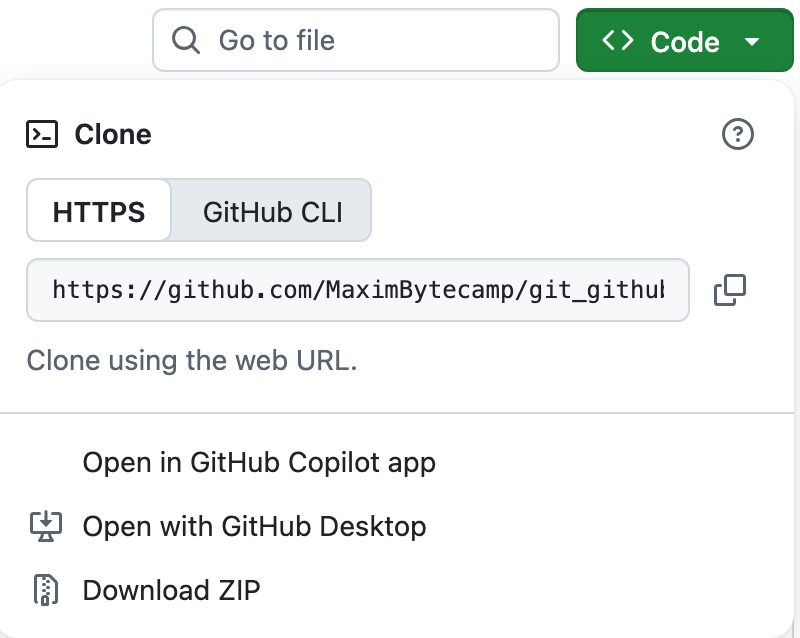
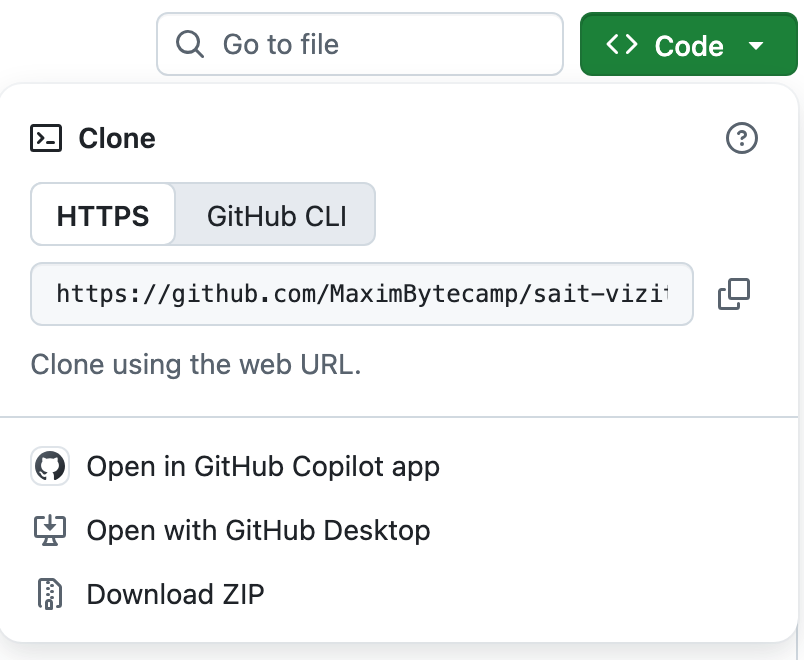
Глава 2.2: клонирование на отдельном учебном репозитории sait-vizitka

diff --git a/temy/05-init-i-clone/index.html b/temy/05-init-i-clone/index.html
@@ -179,23 +179,28 @@ nothing to commit (create/copy files and use "git add" to track)</pre>
         <p>Три факта в четырёх строках: ветка называется <code>main</code>, коммитов ещё нет, отслеживать нечего. Ровно это же показывает пустая панель Source Control — просто короче. На этом путь А закончен; дальше начинается второй.</p>
 
         <h2 id="s4"><span class="sec">§4</span>Путь Б, шаг 1. Скопировать адрес проекта</h2>
+        <p>Клонировать будем учебный проект <a href="https://github.com/MaximBytecamp/sait-vizitka">sait-vizitka</a> — сайт-визитка из трёх файлов с короткой историей. Он открытый, качать его может кто угодно.</p>
         <p>Для клонирования нужен адрес репозитория. Он не берётся из адресной строки браузера — там ссылка на страницу. Настоящий адрес лежит под зелёной кнопкой <b>Code</b> на странице проекта.</p>
         <figure class="shot shot--wide">
+          <img src="img/gh-repo-top.png" alt="Страница проекта sait-vizitka на GitHub: три файла, пояснения к коммитам и счётчик 4 Commits">
+          <figcaption>Страница проекта: три файла, у каждого пояснение к последнему коммиту, справа счётчик <b>4 Commits</b>. Эти же файлы окажутся у вас на диске.</figcaption>
+        </figure>
+        <figure class="shot shot--wide">
           <img src="img/gh-clone-url.png" alt="Раскрытая кнопка Code на GitHub: вкладки HTTPS и GitHub CLI, поле с адресом репозитория и значок копирования">
-          <figcaption>Кнопка <b>Code</b> раскрыта на странице этого справочника. Вкладка <b>HTTPS</b>, поле с адресом, справа значок копирования — нажмите его.</figcaption>
+          <figcaption>Кнопка <b>Code</b> раскрыта на странице учебного проекта <code>sait-vizitka</code>. Вкладка <b>HTTPS</b>, поле с адресом, справа значок копирования — нажимаем его.</figcaption>
         </figure>
         <p>Скопировался адрес, заканчивающийся на <code>.git</code>:</p>
         <div class="swap">
           <div class="swap__row">
-            <div class="swap__old"><b>Ссылка на страницу</b>https://github.com/MaximBytecamp/git_github_makarov</div>
+            <div class="swap__old"><b>Ссылка на страницу</b>https://github.com/MaximBytecamp/sait-vizitka</div>
             <div class="swap__arrow">→</div>
-            <div class="swap__new"><b>Адрес репозитория</b>https://github.com/MaximBytecamp/git_github_makarov.git</div>
+            <div class="swap__new"><b>Адрес репозитория</b>https://github.com/MaximBytecamp/sait-vizitka.git</div>
           </div>
         </div>
         <p>Отличается одним окончанием. Git принимает и ссылку без <code>.git</code> — сам достроит, — но копировать надёжнее из того поля, где адрес дан целиком.</p>
 
         <h2 id="s5"><span class="sec">§5</span>Путь Б, шаг 2. Вызвать команду Git: Clone</h2>
-        <p><b>Что делаем.</b> Открываем палитру команд: <kbd><span data-os="win linux">Ctrl</span><span data-os="mac">Cmd</span></kbd> + <kbd>Shift</kbd> + <kbd>P</kbd>. Начните набирать <code>Git: Clone</code> — список сам сузится до двух пунктов.</p>
+        <p><b>Что делаем.</b> Открываем палитру команд: <kbd><span data-os="win linux">Ctrl</span><span data-os="mac">Cmd</span></kbd> + <kbd>Shift</kbd> + <kbd>P</kbd>. Начинаем набирать <code>Git: Clone</code> — список сам сузится до двух пунктов.</p>
         <figure class="shot shot--wide">
           <img src="img/clone1-palette.png" alt="Палитра команд VS Code с набранным Git: Clone и двумя найденными командами">
           <figcaption>Нужен верхний пункт — <b>Git: Clone</b>. Нижний, <b>Clone (Recursive)</b>, понадобится только на проектах с вложенными репозиториями.</figcaption>
@@ -211,10 +216,10 @@ nothing to commit (create/copy files and use "git add" to track)</pre>
 
         <h2 id="s7"><span class="sec">§7</span>Путь Б, шаг 4. Выбрать папку и открыть проект</h2>
         <p><b>Что делаем.</b> Откроется окно выбора папки. Выбираем папку, <em>в которой</em> появится проект: сама папка проекта создастся внутри и получит имя репозитория. Заводить её заранее не нужно.</p>
-        <p>Когда загрузка закончится, VS Code спросит, открыть ли скачанный проект. Нажмите <b>Open</b> — и в проводнике появятся файлы:</p>
+        <p>Когда загрузка закончится, VS Code спросит, открыть ли скачанный проект. Нажимаем <b>Open</b> — и в проводнике появляются файлы:</p>
         <figure class="shot shot--panel">
-          <img src="img/clone3-files.png" alt="Проводник VS Code со списком файлов склонированного проекта: папки chernoviki, temy, tools и файлы index.html, styles.css, README.md">
-          <figcaption>Файлы склонированного справочника. Это те же папки и файлы, что видны на странице проекта на GitHub.</figcaption>
+          <img src="img/clone3-files.png" alt="Проводник VS Code со списком файлов склонированного проекта: index.html, README.md, styles.css">
+          <figcaption>Файлы склонированного проекта: <code>index.html</code>, <code>README.md</code>, <code>styles.css</code>. Ровно те же три файла видны на странице проекта на GitHub.</figcaption>
         </figure>
         <p>В строке состояния сразу видна ветка и значок обмена с сервером:</p>
         <figure class="shot shot--bar">
@@ -230,18 +235,17 @@ nothing to commit (create/copy files and use "git add" to track)</pre>
         <h2 id="s8"><span class="sec">§8</span>Путь Б, шаг 5. Убедиться, что пришла история</h2>
         <p><b>Что проверяем.</b> Главное отличие клона от скачанной папки — вместе с файлами приехали все прошлые версии. Это видно двумя командами в терминале проекта.</p>
         <figure class="code code--out">
-          <figcaption><span>терминал в склонированной папке</span><span>git log --oneline -5</span></figcaption>
-<pre>12f15c3 Глава 2.1: пошаговый разбор на одном проекте и кадры строки состояния
-507b92c Глава 2.1: панель Source Control
-7c91a90 Модуль 1: снята ранняя глава про устройство, добавлено «зачем это в работе»
-9a69f1f Картинки к определениям и ассоциации к процессам
-ea99758 Редактура текста глав 1.2-1.4</pre>
+          <figcaption><span>терминал в склонированной папке</span><span>git log --oneline</span></figcaption>
+<pre>745f2e1 Добавил README с описанием проекта
+8da3e92 Добавил абзац о себе
+8e377ad Подключил файл со стилями
+934282c Первая страница сайта</pre>
         </figure>
-        <p>Слева короткое имя коммита, справа пояснение автора. Все эти версии лежат у вас на диске и открываются без интернета.</p>
+        <p>Четыре строки — четыре версии проекта, снизу вверх от самой первой. Слева короткое имя коммита, справа пояснение автора. Все они лежат у вас на диске и открываются без интернета: видно, что сайт начинался с одной страницы, потом к нему подключили стили, затем добавили абзац и описание.</p>
         <figure class="code code--out">
           <figcaption><span>терминал</span><span>git remote -v</span></figcaption>
-<pre>origin	https://github.com/MaximBytecamp/git_github_makarov.git (fetch)
-origin	https://github.com/MaximBytecamp/git_github_makarov.git (push)</pre>
+<pre>origin	https://github.com/MaximBytecamp/sait-vizitka.git (fetch)
+origin	https://github.com/MaximBytecamp/sait-vizitka.git (push)</pre>
         </figure>
         <p>Адрес сервера записан под коротким именем <span class="term">origin</span>. Именно поэтому в строке состояния появились стрелки обмена: клон знает, откуда он взят. Две строки вместо одной — потому что адрес получения и адрес отправки разрешено делать разными; в обычном проекте они совпадают.</p>
         <div class="swap">
@@ -267,7 +271,7 @@ origin	https://github.com/MaximBytecamp/git_github_makarov.git (push)</pre>
         </div>
         <div class="margin-note">
           <b>На полях: история весит место</b>
-          <p>Скачивается не только текущая версия файлов. Папка <code>.git</code> этого справочника занимает около 3 МБ при небольшом размере самих файлов — в ней лежат все прошлые состояния. У больших проектов история бывает в разы тяжелее рабочих файлов, и это нормально.</p>
+          <p>Скачивается не только текущая версия файлов, но и все прошлые состояния. У учебного проекта из трёх файлов папка <code>.git</code> занимает около 120 КБ — больше, чем сами файлы. У рабочих проектов с многолетней историей она бывает в разы тяжелее рабочих файлов, и это нормально.</p>
         </div>
 
         <h2 id="s9"><span class="sec">§9</span>Clone или Download ZIP</h2>
@@ -323,7 +327,7 @@ origin	https://github.com/MaximBytecamp/git_github_makarov.git (push)</pre>
         <p>Если папка с таким именем уже есть и в ней что-то лежит, Git отказывается:</p>
         <figure class="code code--out">
           <figcaption><span>терминал</span><span>ответ при конфликте имён</span></figcaption>
-<pre>fatal: destination path 'git_github_makarov' already exists and is not an empty directory.</pre>
+<pre>fatal: destination path 'sait-vizitka' already exists and is not an empty directory.</pre>
         </figure>
         <p>Это защита: иначе клон затёр бы чужие файлы. Выберите другое место или укажите другое имя папки последним словом команды.</p>
 
@@ -443,8 +447,8 @@ origin	https://github.com/MaximBytecamp/git_github_makarov.git (push)</pre>
         <div class="sources">
           <b>Откуда взяты факты</b>
           <ol>
-            <li>Кадры VS Code сняты на учебных проектах этой главы: пустая папка <code>proba-git</code> и клон справочника. Ответы команд получены в Git версии 2.51.1.</li>
-            <li>Кадр страницы проекта и кнопки <b>Code</b> — <a href="https://github.com/MaximBytecamp/git_github_makarov">github.com/MaximBytecamp/git_github_makarov</a>.</li>
+            <li>Кадры VS Code сняты на учебных проектах этой главы: пустая папка <code>proba-git</code> и клон проекта <code>sait-vizitka</code>. Ответы команд получены в Git версии 2.51.1.</li>
+            <li>Учебный репозиторий для клонирования — <a href="https://github.com/MaximBytecamp/sait-vizitka">github.com/MaximBytecamp/sait-vizitka</a>: страница одного сайта и четыре коммита.</li>
             <li>Поведение <code>git init</code> и <code>git clone</code> — <a href="https://git-scm.com/docs/git-init">документация git-init</a> и <a href="https://git-scm.com/docs/git-clone">git-clone</a>.</li>
             <li>Команда <code>Git: Clone</code> и стартовый экран — <a href="https://code.visualstudio.com/docs/sourcecontrol/overview">документация VS Code, раздел Source Control</a>.</li>
             <li>Переход на имя ветки <code>main</code> — <a href="https://github.com/github/renaming">объявление GitHub о переименовании ветки по умолчанию</a>.</li>
